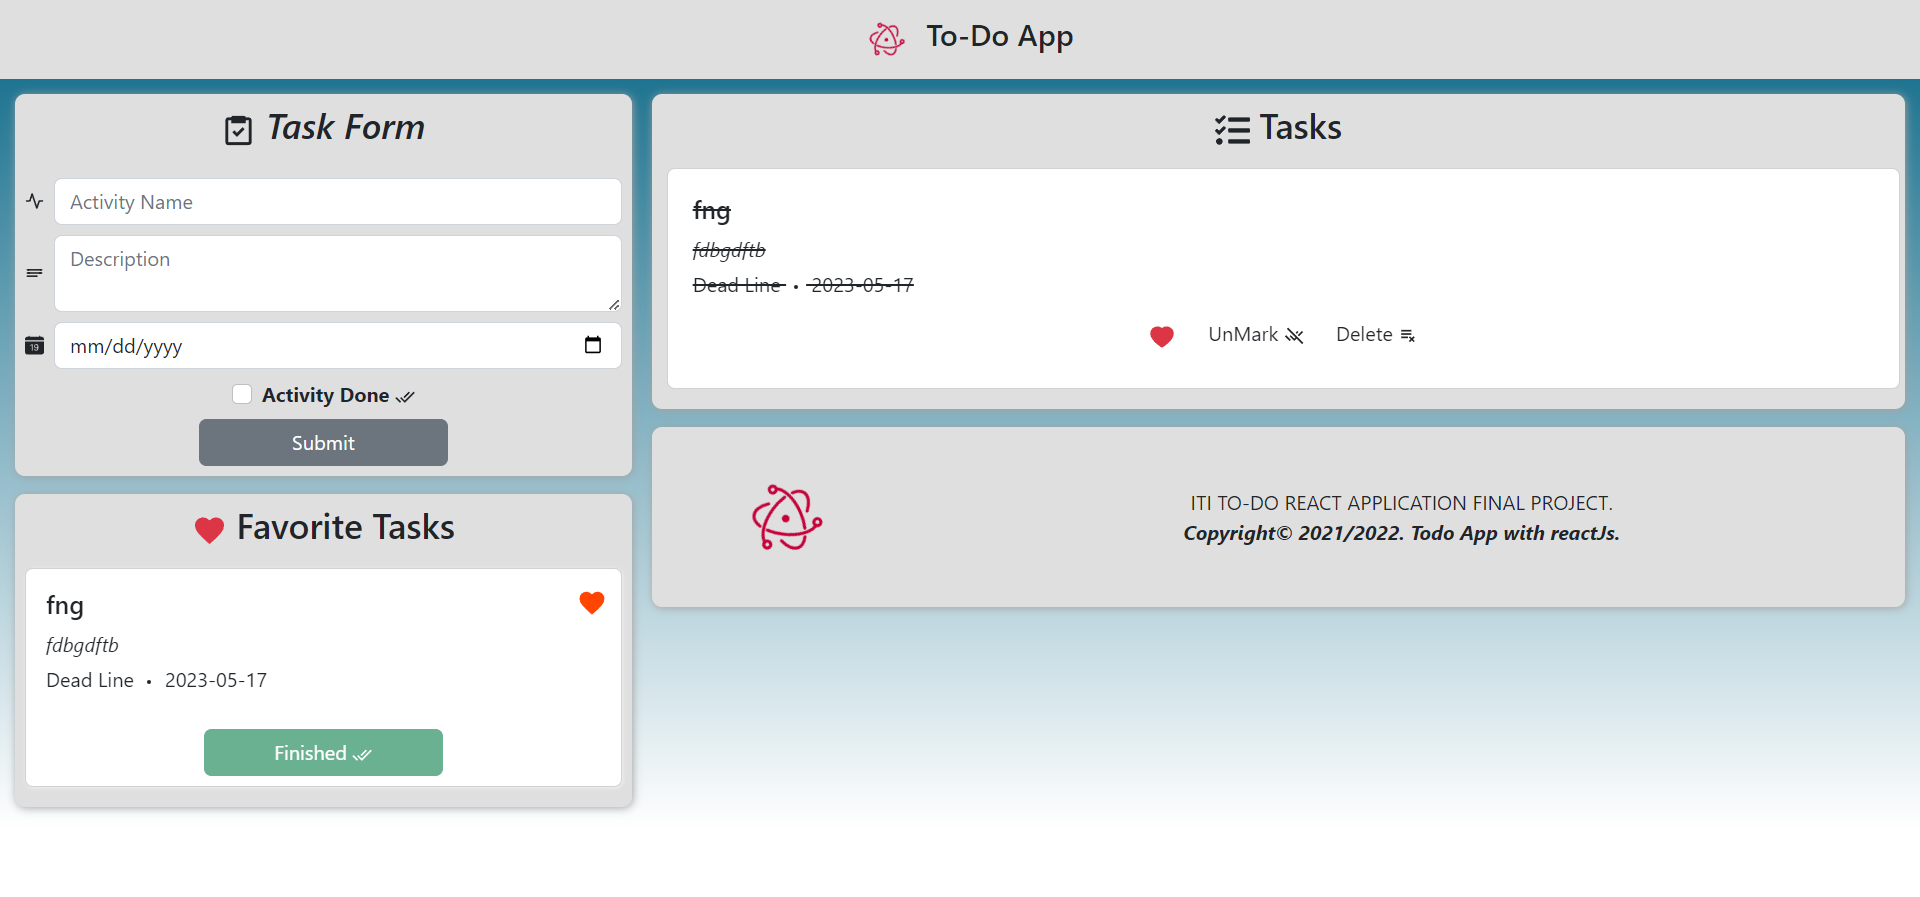
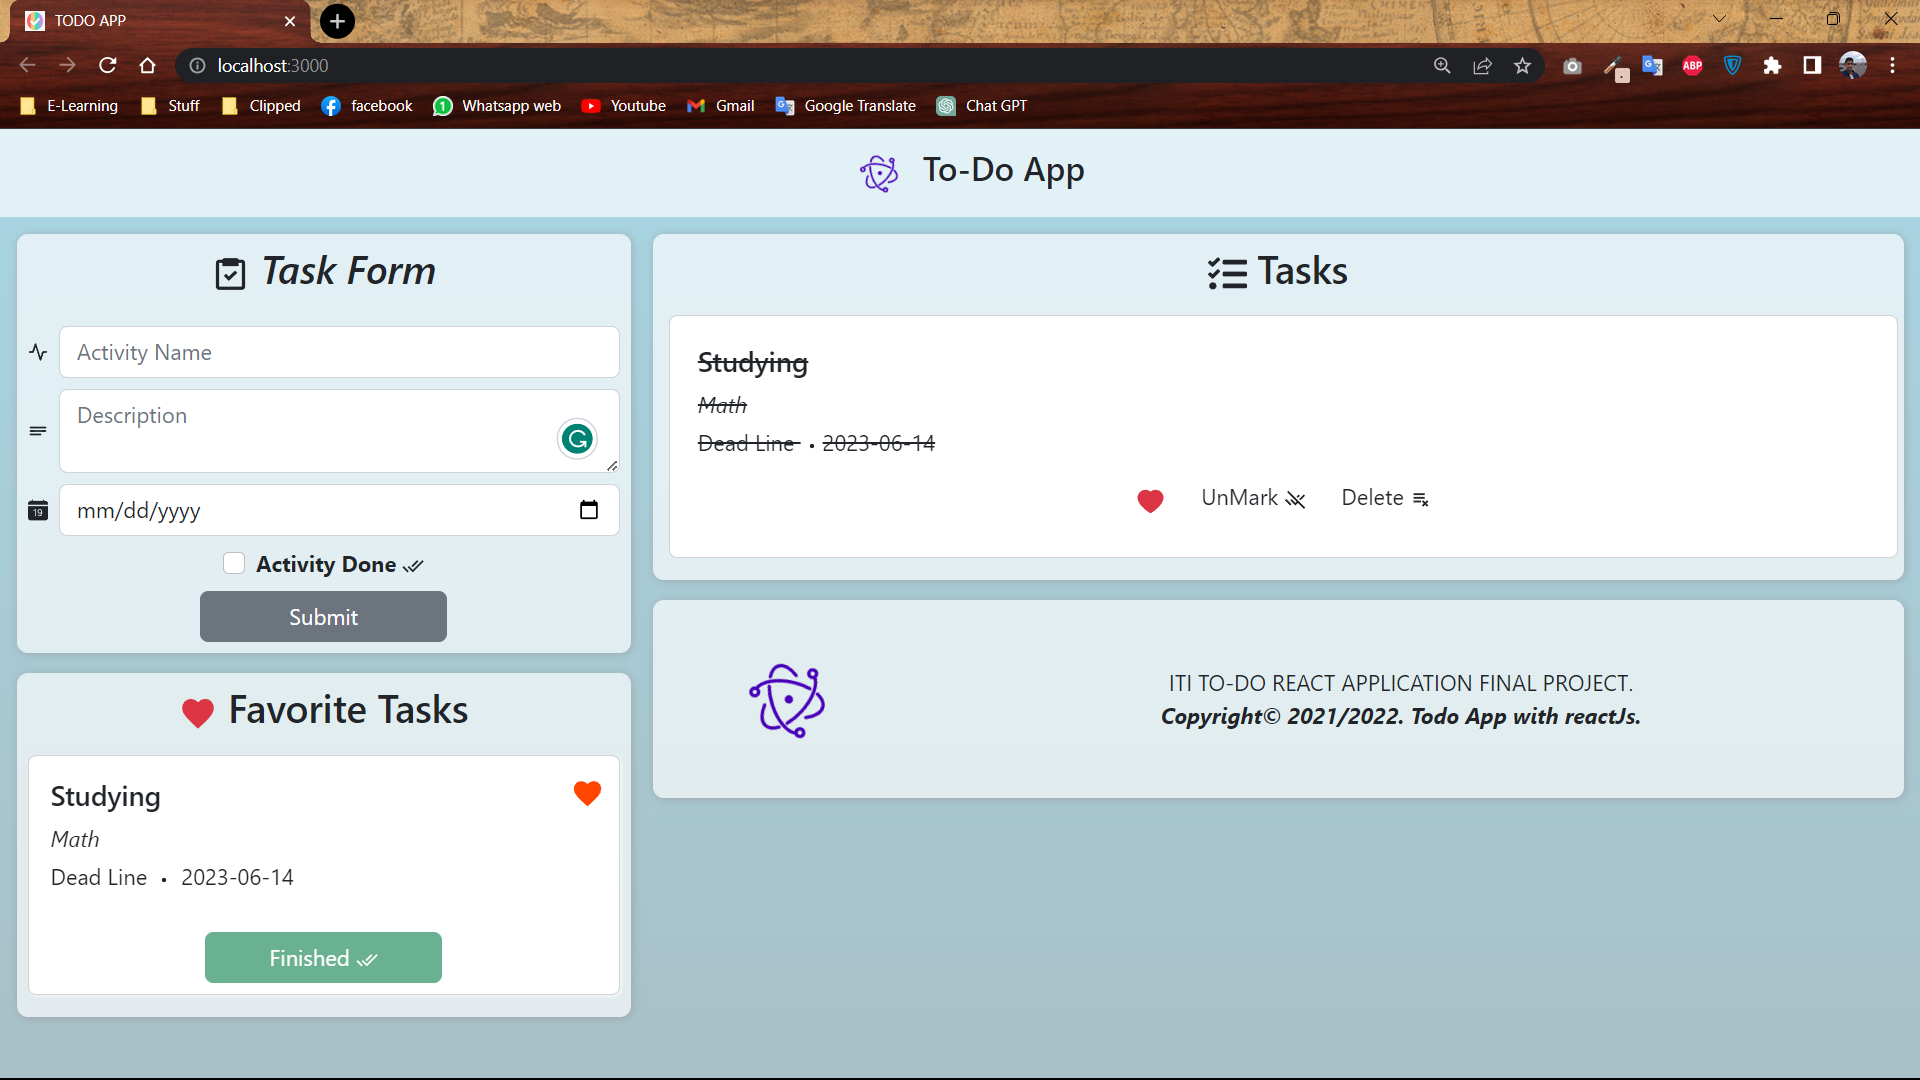
Editing Style view.

diff --git a/src/layout/Home.css b/src/layout/Home.css
@@ -1,7 +1,13 @@
+body{
+    background-image: linear-gradient(#a8d6e5, #a8c0c7);
+    background-repeat: no-repeat;
+    background-position: center;
+    background-attachment: fixed;
+}
+
 .todo-container {
     display: flex;
-    flex-direction: column;
-    background-image: linear-gradient(#076585, #fff);
+    flex-direction: column;    
 }
 
 .todo-container>section {
@@ -24,8 +30,8 @@
     padding: 0.5em;
     border-radius: 0.5em;
     margin-bottom: .9em;
-    background-color: #dfdfdf;
-    box-shadow: 1px 1px 7px #a3a3a3;
+    background-color: #ffffffaa;
+    box-shadow: 1px 1px 7px #979696a2;
 }
 
 .gray-container:hover {

diff --git a/src/components/NavBar/NavBar.css b/src/components/NavBar/NavBar.css
@@ -3,7 +3,7 @@ nav > section {
     display: flex;
     align-items: center;
     justify-content: center;
-    background-color: #dfdfdf;
+    background-color: #ffffffaa;
 }
 
 nav svg {
